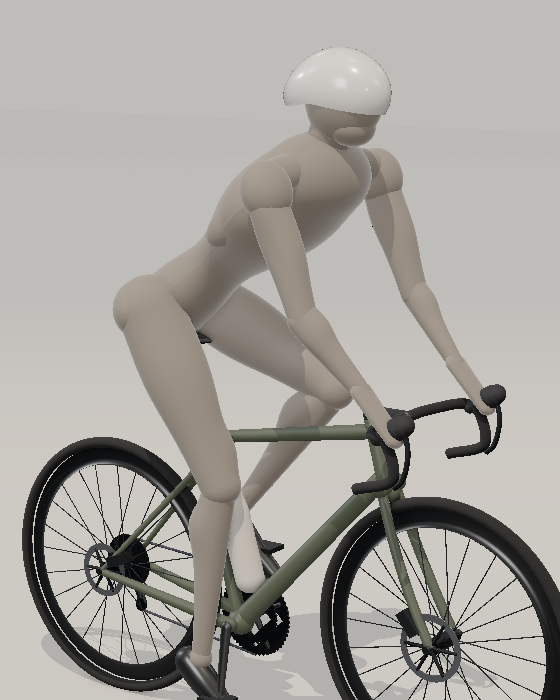
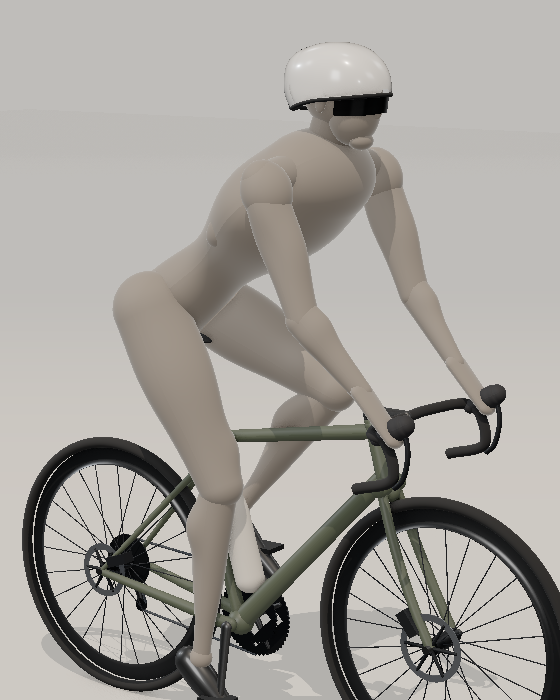
Rider: fitted head and helmet, fuller build, defined calves
Rebuilds the head (cranium, face, chin, nose, ears) and fits the helmet
to it: an offset superellipse shell with a low rear rim, a long tail
and a liner band, plus a wrap shield lens. Makes the build about 10%
fuller and sharpens the calves into a visible diamond split. Updates
the plan and mock-ups, and adds a side/front/3-4 head sheet.

Claude-Session: https://claude.ai/code/session_01NLmMAFFsk38kWFHaEgHSMq

diff --git a/docs/plans/mockups/src/rider3.js b/docs/plans/mockups/src/rider3.js
@@ -11,14 +11,15 @@ function taperLimb(a, b, prof, sx, sz, mat) {
 }
 // Lathe limb with directional muscle bulges built into the surface.
 // bulges: [{ dir: world Vector3 (unit, ⟂ bone), t, w, amp, spread }] — radius += amp·gauss(t)·max(0,cos θ)^spread
-function muscleLimb(a, b, prof, bulges, mat, sxz = [1, 1]) {
-  const L = a.distanceTo(b), g = limbGeometry(L, prof, 48, 64), p = g.attributes.position;
+const FAT = 1.1;
+function muscleLimb(a, b, prof0, bulges, mat, sxz = [1, 1]) {
+  const prof = t => prof0(t) * FAT; const L = a.distanceTo(b), g = limbGeometry(L, prof, 48, 64), p = g.attributes.position;
   const q = new THREE.Quaternion().setFromUnitVectors(V(0, 1, 0), b.clone().sub(a).normalize()), qi = q.clone().invert();
   const loc = bulges.map(u => { const d = u.dir.clone().applyQuaternion(qi); d.y = 0; d.normalize(); return { ...u, d }; });
   for (let i = 0; i < p.count; i++) {
     const x = p.getX(i), y = p.getY(i), z = p.getZ(i), rr = Math.hypot(x, z); if (rr < 1e-3) continue;
     const t = Math.min(1, Math.max(0, y / L)); let add = 0;
-    for (const u of loc) { const c = (x * u.d.x + z * u.d.z) / rr; if (c > 0) add += u.amp * Math.exp(-((t - u.t) ** 2) / (2 * u.w * u.w)) * Math.pow(c, u.spread ?? 2); }
+    for (const u of loc) { const c = (x * u.d.x + z * u.d.z) / rr; if (c > 0) add += FAT * u.amp * Math.exp(-((t - u.t) ** 2) / (2 * u.w * u.w)) * Math.pow(c, u.spread ?? 2); }
     const k = (rr + add) / rr; p.setX(i, x * k * sxz[0]); p.setZ(i, z * k * sxz[1]);
   }
   g.computeVertexNormals(); const m = new THREE.Mesh(g, mat); m.position.copy(a); m.quaternion.copy(q); return m;
@@ -32,7 +33,7 @@ export function buildRider(G, MAT) {
   const hip = V2(J.hip), sh = V2(J.shoulder), ax = sh.clone().sub(hip).normalize(), nrm = V(-ax.y, ax.x); // nrm = "up/back" side of torso
   const trunkA = Math.atan2(ax.y, ax.x);
   // Torso: pelvis → narrow waist → broad ribcage/lats → chest; V-taper in width, flat back
-  const torsoProf = t => 98 - 20 * bump(t, .36, .13) + 18 * bump(t, .78, .16);
+  const torsoProf = t => 1.08 * (98 - 18 * bump(t, .36, .13) + 18 * bump(t, .78, .16));
   g.add(taperLimb(hip.clone().addScaledVector(ax, -10), sh.clone().addScaledVector(ax, -18), torsoProf,
     t => lerp(.9, 1.02, ss(.3, .85, t)), t => lerp(1.08, 1.6, ss(.28, .86, t)), CL));
   for (const s of [-1, 1]) g.add(ell(hip.clone().lerp(sh, .66).addScaledVector(nrm, 10).setZ(s * 128), [92, 44, 34], CL, trunkA)); // lats
@@ -45,7 +46,7 @@ export function buildRider(G, MAT) {
   }
   // pelvis + glutes
   g.add(tube(V(J.hip.x - 16, J.hip.y - 4, hh), V(J.hip.x - 16, J.hip.y - 4, -hh), 78, 78, CL));
-  for (const s of [-1, 1]) g.add(ell(V(J.hip.x - 52, J.hip.y - 20, s * 54), [58, 52, 52], CL, trunkA * .3));
+  for (const s of [-1, 1]) g.add(ell(V(J.hip.x - 52, J.hip.y - 20, s * 54), [64, 58, 58], CL, trunkA * .3));
   // legs: quads (vastus + VMO teardrop), calf mass behind the shin
   const legs = [[1, J.knee, J.ankle, J.cleatL, FO], [-1, J.kneeR, J.ankleR, J.cleatR, CL]];
   for (const [s, kn, an, cl, M] of legs) {
@@ -58,12 +59,13 @@ export function buildRider(G, MAT) {
       { dir: lat, t: .45, w: .2, amp: 12, spread: 2 },                                 // vastus lateralis sweep
       { dir: antT.clone().negate(), t: .35, w: .2, amp: 8, spread: 2 },                // hamstrings
     ], M, [1, .92]));
-    g.add(sphere(k, 49, M, [1, 1, .9]));
+    g.add(sphere(k, 54, M, [1, 1, .9]));
     const sd = a.clone().sub(k).normalize(); let post = V(sd.y, -sd.x).normalize(); if (post.x > 0) post.negate();
-    g.add(muscleLimb(k, a, t => lerp(42, 24, t), [
-      { dir: post.clone().add(med.clone().multiplyScalar(.5)).normalize(), t: .27, w: .12, amp: 26, spread: 2 }, // gastrocnemius medial head
-      { dir: post.clone().add(lat.clone().multiplyScalar(.5)).normalize(), t: .24, w: .1, amp: 18, spread: 2 },  // lateral head
-      { dir: post, t: .5, w: .16, amp: 10, spread: 2 },                                                          // soleus → Achilles
+    g.add(muscleLimb(k, a, t => lerp(42, 22, t) - 3 * bump(t, .85, .1), [
+      { dir: post.clone().add(med.clone().multiplyScalar(.75)).normalize(), t: .3, w: .12, amp: 36, spread: 4 },  // gastrocnemius medial head (lower, fuller)
+      { dir: post.clone().add(lat.clone().multiplyScalar(.75)).normalize(), t: .24, w: .1, amp: 28, spread: 4 },  // lateral head (higher) → diamond split
+      { dir: post, t: .5, w: .12, amp: 12, spread: 3 },                                                           // soleus
+      { dir: med, t: .52, w: .12, amp: 8, spread: 3 },                                                            // soleus medial flare
       { dir: lat, t: .3, w: .16, amp: 5, spread: 2 },                                                            // tibialis/peroneals
     ], M, [1, .92]));
     g.add(sphere(a, 29, M));
@@ -80,7 +82,7 @@ export function buildRider(G, MAT) {
       { dir: ant.clone().negate(), t: .38, w: .2, amp: 13, spread: 2 }, // triceps
       { dir: V(0, 0, s), t: .2, w: .14, amp: 8, spread: 2 },            // deltoid insertion
     ], CL));
-    g.add(sphere(el, 33, CL));
+    g.add(sphere(el, 36, CL));
     const fd = wr.clone().sub(el).normalize(); let up2 = V(-fd.y, fd.x).normalize(); if (up2.y < 0) up2.negate();
     g.add(muscleLimb(el, wr, t => lerp(36, 21, t), [{ dir: up2, t: .18, w: .14, amp: 10, spread: 2 }, { dir: V(0, 0, s), t: .22, w: .15, amp: 6, spread: 2 }], CL, [1, .86]));
     const hEnd = hd.clone().add(hd.clone().sub(wr).normalize().multiplyScalar(28));
@@ -89,14 +91,44 @@ export function buildRider(G, MAT) {
   // neck (thick), head, jaw, glasses, helmet
   const headC = V2(J.head);
   g.add(tube(sh.clone().add(V(-12, -22)), headC.clone().add(V(-26, -44)), 54, 49, CL));
-  const na = Math.atan2(J.head.y - J.neckBase.y, J.head.x - J.neckBase.x), gaze = na - d2r(80);
+  const na = Math.atan2(J.head.y - J.neckBase.y, J.head.x - J.neckBase.x), gaze = na - d2r(78);
   const H = new THREE.Group(); H.position.copy(headC); H.rotation.z = gaze; g.add(H);
-  H.add(ell(V(0, 0, 0), [96, 108, 76], CL), ell(V(28, -60, 0), [58, 46, 56], CL), ell(V(90, -4, 0), [16, 22, 11], CL));
-  { // helmet: the earlier shell (upper 62% of a sphere, flattened, with a rear tail kick)
-    const hg = new THREE.SphereGeometry(1, 72, 36, 0, Math.PI * 2, 0, Math.PI * .62), p = hg.attributes.position;
-    for (let i = 0; i < p.count; i++) { let x = p.getX(i), y = p.getY(i), z = p.getZ(i); z *= .86; y *= .78; if (x < 0) { x *= 1.28; y -= .18 * x * x; } else x *= 1.06; p.setXYZ(i, x * 116 - 10, y * 122 + 16, z * 95); }
-    hg.computeVertexNormals(); H.add(new THREE.Mesh(hg, MAT.helmet));
-  }
+  // head (head-local: +x gaze, +y up, +z left): cranium, face, jaw/chin, nose, ears
+  const CR = { c: V(-8, 18, 0), r: V(98, 94, 77) };
+  H.add(ell(CR.c, [CR.r.x, CR.r.y, CR.r.z], CL));
+  H.add(ell(V(30, -30, 0), [60, 74, 62], CL));
+  H.add(ell(V(58, -88, 0), [26, 22, 34], CL));
+  H.add(ell(V(92, -12, 0), [12, 22, 9], CL));
+  for (const s of [-1, 1]) H.add(ell(V(-12, -8, s * 76), [14, 26, 8], CL));
+  // helmet: shell = cranium ellipsoid offset outward, cut along a rim line (brow → above ear → occiput), short tail
+  const off = 18, A = CR.r.x + off, B = CR.r.y + 10, Cz = CR.r.z + off, cx = CR.c.x, cy = CR.c.y;
+  const rimY = x => { const u = (x - cx) / A; return u > 0 ? lerp(-4, 24, u) : lerp(-4, -52, (-u) ** 1.2); }; // front brow high, rear low
+  const shellPt = (x, a, k = 1) => {
+    const u = (x - cx) / (x < cx ? A * 1.3 : A), kk = Math.sqrt(Math.max(0, 1 - u * u));
+    const tail = x < cx ? 10 * Math.max(0, -u - .6) / .4 : 0;
+    const q = 2.5, ca = Math.cos(a), sa = Math.sin(a);
+    return V(x, cy + B * kk * Math.sign(ca) * Math.abs(ca) ** (2 / q) * k + tail, Cz * kk * Math.sign(sa) * Math.abs(sa) ** (2 / q) * k);
+  };
+  const helm = (inset, NS = 80, NA = 56) => {
+    const pos = [], idx = [], x0 = cx - A * 1.3 + 2, x1 = cx + A - 2;
+    for (let i = 0; i <= NS; i++) { const x = lerp(x0, x1, i / NS), u = (x - cx) / (x < cx ? A * 1.3 : A), kk = Math.sqrt(Math.max(1e-4, 1 - u * u));
+      const vv = Math.max(-1, Math.min(1, (rimY(x) - cy) / (B * kk))), am = Math.acos(Math.sign(vv) * Math.abs(vv) ** (2.5 / 2));
+      for (let j = 0; j <= NA; j++) { const p = shellPt(x, lerp(-am, am, j / NA), inset); pos.push(p.x, p.y, p.z); } }
+    for (let i = 0; i < NS; i++) for (let j = 0; j < NA; j++) { const a0 = i * (NA + 1) + j, b0 = a0 + NA + 1; idx.push(a0, b0, a0 + 1, b0, b0 + 1, a0 + 1); }
+    const gg = new THREE.BufferGeometry(); gg.setAttribute('position', new THREE.Float32BufferAttribute(pos, 3)); gg.setIndex(idx); gg.computeVertexNormals(); return gg;
+  };
+  H.add(new THREE.Mesh(helm(1), MAT.helmet));
+  // dark liner edge along the rim
+  const edge = []; const x0 = cx - A * 1.3 + 4, x1 = cx + A - 4;
+  for (const side of [1, -1]) for (let i = 0; i <= 60; i++) { const x = side > 0 ? lerp(x0, x1, i / 60) : lerp(x1, x0, i / 60), u = (x - cx) / (x < cx ? A * 1.3 : A), kk = Math.sqrt(Math.max(1e-4, 1 - u * u));
+    const vv = Math.max(-1, Math.min(1, (rimY(x) - cy) / (B * kk))), am = Math.acos(Math.sign(vv) * Math.abs(vv) ** (2.5 / 2)); edge.push(shellPt(x, side * am, .97)); }
+  H.add(new THREE.Mesh(new THREE.TubeGeometry(new THREE.CatmullRomCurve3(edge, true), 240, 5, 8, true), MAT.vent));
+  // fitted wrap glasses: band hugging the face at eye level
+  { const pos = [], idx = [], NA = 40, NH = 6;
+    for (let i = 0; i <= NH; i++) { const y = lerp(-22, 24, i / NH); for (let j = 0; j <= NA; j++) { const a = lerp(-1.25, 1.25, j / NA);
+      const rx = 112 - 26 * (1 - Math.cos(a)), rz = 82; pos.push(Math.cos(a) * rx - 4, y - 6 * Math.abs(Math.sin(a)) + (y < 0 ? 5 * Math.cos(a * 2.4) : 0), Math.sin(a) * rz); } }
+    for (let i = 0; i < NH; i++) for (let j = 0; j < NA; j++) { const a0 = i * (NA + 1) + j, b0 = a0 + NA + 1; idx.push(a0, b0, a0 + 1, b0, b0 + 1, a0 + 1); }
+    const gg = new THREE.BufferGeometry(); gg.setAttribute('position', new THREE.Float32BufferAttribute(pos, 3)); gg.setIndex(idx); gg.computeVertexNormals(); H.add(new THREE.Mesh(gg, MAT.lens)); }
   g.traverse(o => { if (o.isMesh) { o.castShadow = true; o.receiveShadow = true; } });
   return g;
 }

diff --git a/docs/plans/mockups/src/draw2d.js b/docs/plans/mockups/src/draw2d.js
@@ -95,27 +95,33 @@ export function clayDefs(tok) {
 export function clayFigure(G, part) {
   const { J } = G; const s = [];
   const Pg = p => `<polygon class="clay" points="${p}"/>`;
-  if (part === 'farLeg') { s.push(Pg(seg(J.hip, J.kneeR, t => lerp(84, 51, t) + 12 * bumpf(t, .3, .2))), Pg(seg(J.kneeR, J.ankleR, t => lerp(45, 27, t) + 8 * bumpf(t, .3, .14)))); const sd = Math.atan2(J.ankleR.y - J.kneeR.y, J.ankleR.x - J.kneeR.x); const cc = v(lerp(J.kneeR.x, J.ankleR.x, .28) - 26, lerp(J.kneeR.y, J.ankleR.y, .28)); s.push(Pg(ellP(cc, 92, 42, sd))); }
-  if (part === 'farArm') s.push(Pg(seg(J.shoulder, J.elbow, t => lerp(46, 35, t) + 9 * bumpf(t, .45, .2))), Pg(seg(J.elbow, J.wrist, t => lerp(41, 23, t) + 7 * bumpf(t, .18, .14))));
+  if (part === 'farLeg') { s.push(Pg(seg(J.hip, J.kneeR, t => 1.1 * lerp(84, 51, t) + 12 * bumpf(t, .3, .2))), Pg(seg(J.kneeR, J.ankleR, t => 1.1 * lerp(45, 27, t) + 8 * bumpf(t, .3, .14)))); const sd = Math.atan2(J.ankleR.y - J.kneeR.y, J.ankleR.x - J.kneeR.x); const cc = v(lerp(J.kneeR.x, J.ankleR.x, .28) - 26, lerp(J.kneeR.y, J.ankleR.y, .28)); s.push(Pg(ellP(cc, 96, 48, sd))); }
+  if (part === 'farArm') s.push(Pg(seg(J.shoulder, J.elbow, t => 1.1 * lerp(46, 35, t) + 9 * bumpf(t, .45, .2))), Pg(seg(J.elbow, J.wrist, t => 1.1 * lerp(41, 23, t) + 7 * bumpf(t, .18, .14))));
   if (part === 'body') {
     const ax = Math.atan2(J.shoulder.y - J.hip.y, J.shoulder.x - J.hip.x);
-    s.push(Pg(seg(v(J.hip.x - Math.cos(ax) * 10, J.hip.y - Math.sin(ax) * 10), v(J.shoulder.x - Math.cos(ax) * 18, J.shoulder.y - Math.sin(ax) * 18), t => (100 - 14 * bumpf(t, .36, .14) + 16 * bumpf(t, .78, .16)) * lerp(.9, 1.02, Math.min(1, Math.max(0, (t - .3) / .55))))));
-    s.push(Pg(ellP(v(J.hip.x - 16, J.hip.y - 4), 80, 78)), Pg(ellP(v(J.hip.x - 52, J.hip.y - 20), 62, 56, ax * .3)));
-    s.push(Pg(seg(v(J.neckBase.x - 20, J.neckBase.y - 6), J.shoulder, t => lerp(50, 42, t))));
-    s.push(Pg(seg(v(J.shoulder.x - 12, J.shoulder.y - 22), v(J.head.x - 26, J.head.y - 44), t => lerp(58, 52, t))));
+    s.push(Pg(seg(v(J.hip.x - Math.cos(ax) * 10, J.hip.y - Math.sin(ax) * 10), v(J.shoulder.x - Math.cos(ax) * 18, J.shoulder.y - Math.sin(ax) * 18), t => 1.08 * (98 - 18 * bumpf(t, .36, .13) + 18 * bumpf(t, .78, .16)) * lerp(.9, 1.02, Math.min(1, Math.max(0, (t - .3) / .55))))));
+    s.push(Pg(ellP(v(J.hip.x - 16, J.hip.y - 4), 80, 78)), Pg(ellP(v(J.hip.x - 52, J.hip.y - 20), 68, 62, ax * .3)));
+    s.push(Pg(seg(v(J.neckBase.x - 20, J.neckBase.y - 6), J.shoulder, t => 1.1 * lerp(50, 42, t))));
+    s.push(Pg(seg(v(J.shoulder.x - 12, J.shoulder.y - 22), v(J.head.x - 26, J.head.y - 44), t => 1.1 * lerp(58, 52, t))));
     const ua = Math.atan2(J.elbow.y - J.shoulder.y, J.elbow.x - J.shoulder.x);
     s.push(Pg(ellP(v(J.shoulder.x + Math.cos(ua) * 26, J.shoulder.y + Math.sin(ua) * 26), 70, 58, ua)));
-    s.push(Pg(seg(J.shoulder, J.elbow, t => lerp(46, 35, t) + 9 * bumpf(t, .45, .2))), Pg(seg(J.elbow, J.wrist, t => lerp(41, 23, t) + 7 * bumpf(t, .18, .14))));
+    s.push(Pg(seg(J.shoulder, J.elbow, t => 1.1 * lerp(46, 35, t) + 9 * bumpf(t, .45, .2))), Pg(seg(J.elbow, J.wrist, t => 1.1 * lerp(41, 23, t) + 7 * bumpf(t, .18, .14))));
   }
-  if (part === 'nearLeg') { s.push(Pg(seg(J.hip, J.knee, t => lerp(84, 51, t) + 12 * bumpf(t, .3, .2))), Pg(seg(J.knee, J.ankle, t => lerp(45, 27, t) + 8 * bumpf(t, .3, .14)))); const sd = Math.atan2(J.ankle.y - J.knee.y, J.ankle.x - J.knee.x); const cc = v(lerp(J.knee.x, J.ankle.x, .28) - 26, lerp(J.knee.y, J.ankle.y, .28)); s.push(Pg(ellP(cc, 92, 42, sd))); }
+  if (part === 'nearLeg') { s.push(Pg(seg(J.hip, J.knee, t => 1.1 * lerp(84, 51, t) + 12 * bumpf(t, .3, .2))), Pg(seg(J.knee, J.ankle, t => 1.1 * lerp(45, 27, t) + 8 * bumpf(t, .3, .14)))); const sd = Math.atan2(J.ankle.y - J.knee.y, J.ankle.x - J.knee.x); const cc = v(lerp(J.knee.x, J.ankle.x, .28) - 26, lerp(J.knee.y, J.ankle.y, .28)); s.push(Pg(ellP(cc, 96, 48, sd))); }
   return s.join('');
 }
 export function clayHead(G) {
-  const { J } = G; const na = Math.atan2(J.head.y - J.neckBase.y, J.head.x - J.neckBase.x), gz = na - 80 * Math.PI / 180;
+  const { J } = G; const na = Math.atan2(J.head.y - J.neckBase.y, J.head.x - J.neckBase.x), gz = na - 78 * Math.PI / 180;
   const R = (x, y) => [J.head.x + x * Math.cos(gz) - y * Math.sin(gz), J.head.y + x * Math.sin(gz) + y * Math.cos(gz)];
   const el = (cx, cy, rx, ry) => { const o = []; for (let i = 0; i < 36; i++) { const a = i / 36 * Math.PI * 2; o.push(R(cx + Math.cos(a) * rx, cy + Math.sin(a) * ry)); } return pts(o); };
-  let s = `<g filter="url(#fres)"><polygon class="clay" points="${el(0, 0, 96, 108)}"/><polygon class="clay" points="${el(28, -60, 58, 46)}"/><polygon class="clay" points="${el(90, -4, 16, 22)}"/></g>`;
-  const shl = (k, off) => { const o = []; for (let i = 0; i <= 80; i++) { const th = -Math.PI * .62 + i / 80 * Math.PI * 1.24; let x = Math.sin(th), y = Math.cos(th); y *= .78; if (x < 0) { x *= 1.28; y -= .18 * x * x; } else x *= 1.06; o.push(R(x * 116 * k - 10, y * 122 * k + 16 - off)); } return o; };
-  s += `<polygon class="helmet" points="${pts(shl(1, 0).concat(shl(.88, 4).reverse()))}"/>`;
+  let s = `<g filter="url(#fres)"><polygon class="clay" points="${el(-8, 18, 98, 94)}"/><polygon class="clay" points="${el(30, -30, 60, 74)}"/><polygon class="clay" points="${el(58, -88, 26, 22)}"/><polygon class="clay" points="${el(92, -12, 12, 22)}"/><polygon class="clay" points="${el(-12, -8, 14, 26)}"/></g>`;
+  // helmet side silhouette: same shell as 3D (cranium + offset, rim line, long tail)
+  const cx = -8, cy = 18, A = 98 + 18, B = 94 + 10;
+  const rimY = x => { const u = (x - cx) / A; return u > 0 ? -4 + 28 * u : -4 - 48 * (-u) ** 1.2; };
+  const top = [], bot = [];
+  for (let i = 0; i <= 80; i++) { const x = cx - A * 1.3 + 2 + i / 80 * (A * 2.3 - 4), u = (x - cx) / (x < cx ? A * 1.3 : A), kk = Math.sqrt(Math.max(0, 1 - u * u)), tail = x < cx ? 10 * Math.max(0, -u - .6) / .4 : 0;
+    const yt = cy + B * kk + tail, yb = Math.min(yt - 2, Math.max(rimY(x), cy - B * kk * 0.2)); top.push(R(x, yt)); bot.push(R(x, yb)); }
+  s += `<polygon class="helmet" points="${pts([...top, ...bot.reverse()])}"/><polyline class="liner" points="${pts(bot)}"/>`;
+  s += `<polygon class="lens" points="${pts([R(50, 20), R(106, 20), R(108, -12), R(94, -16), R(62, -14), R(46, -2)])}"/>`;
   return s;
 }

diff --git a/docs/plans/mockups/src/app.html b/docs/plans/mockups/src/app.html
@@ -5,7 +5,7 @@
 <script type="module">
 import { build, METRICS, band } from './geom.js';
 import { mark } from './overlay.js';
-import { bikeLayers, headSVG, extremitiesSVG, clayDefs, clayFigure, clayHead } from './draw2d.js';
+import { rasterBody, bikeLayers, headSVG, extremitiesSVG, clayDefs, clayFigure, clayHead } from './draw2d.js';
 const SEX = new URLSearchParams(location.search).get('sex') || 'm';
 const theme = new URLSearchParams(location.search).get('theme') || 'light';
 document.documentElement.dataset.theme = theme;
@@ -110,13 +110,13 @@ const nav = `<div class="nav"><div class="brand">${mark('var(--ink)', 'var(--acc
 const stage = `<div class="stage"><div class="stagebar"><div class="seg" style="width:180px"><span class="on">SIDE</span><span>FRONT</span><span>3D</span></div><span class="pill">LAYERS ▾</span><span class="pill on">ANGLES</span><span class="pill on">DIMENSIONS</span><span class="pill">KOPS</span><span class="ttl sp">COMPARE <b style="color:var(--accentTxt)">FIT 02</b> ▾</span><span class="pill">⛶</span></div>${stageSvg}<div class="ov ov2">${lab}</div></div>`;
 document.getElementById('root').innerHTML = `<div class="app">${nav}<div class="main">${left}${stage}${right}</div></div>`;
 const st = document.createElement('style'); st.textContent = `
- svg.s2d .frame,svg.s2d .frameF{fill:var(--frame)} svg.s2d .fork{fill:none;stroke:var(--frame);stroke-width:24;stroke-linecap:round} svg.s2d .carbon,svg.s2d .blk,svg.s2d .sad{fill:#141516} svg.s2d .rim{fill:none;stroke:#141516;stroke-width:44} svg.s2d .hub{fill:#2A2C2F} svg.s2d .ringB,svg.s2d .ringS{fill:none;stroke:#2A2C2F;stroke-width:7} svg.s2d .cas{fill:none;stroke:#2A2C2F;stroke-width:3} svg.s2d .pul{fill:#2A2C2F} svg.s2d .rotor{fill:none;stroke:#8E939A;stroke-width:15} svg.s2d .rotorS{stroke:#6F747B;stroke-width:6} svg.s2d .cal{fill:#2A2C2F} svg.s2d .hose{fill:none;stroke:#1C1C1D;stroke-width:6} svg.s2d .bottle{fill:var(--bottle)} svg.s2d .cage{stroke:#141516;stroke-width:5} svg.s2d .hood{fill:#202022} svg.s2d .lever{fill:none;stroke:#2A2C2F;stroke-width:12;stroke-linecap:round} svg.s2d .skin{fill:var(--skin)} svg.s2d .clay{fill:var(--clay)} svg.s2d .hair{fill:#3B3430} svg.s2d .lens{fill:#0E0F10} svg.s2d .helmet{fill:var(--helmet);stroke:var(--ink);stroke-width:2.5;stroke-opacity:.5} svg.s2d .vent{fill:none;stroke:#141516;stroke-width:9;stroke-linecap:round} svg.s2d .strap{stroke:#141516;stroke-width:4} svg.s2d .shoe{fill:#1A1B1C} svg.s2d .sole{fill:#141516} svg.s2d .glove{fill:var(--clay)}
+ svg.s2d .frame,svg.s2d .frameF{fill:var(--frame)} svg.s2d .fork{fill:none;stroke:var(--frame);stroke-width:24;stroke-linecap:round} svg.s2d .carbon,svg.s2d .blk,svg.s2d .sad{fill:#141516} svg.s2d .rim{fill:none;stroke:#141516;stroke-width:44} svg.s2d .hub{fill:#2A2C2F} svg.s2d .ringB,svg.s2d .ringS{fill:none;stroke:#2A2C2F;stroke-width:7} svg.s2d .cas{fill:none;stroke:#2A2C2F;stroke-width:3} svg.s2d .pul{fill:#2A2C2F} svg.s2d .rotor{fill:none;stroke:#8E939A;stroke-width:15} svg.s2d .rotorS{stroke:#6F747B;stroke-width:6} svg.s2d .cal{fill:#2A2C2F} svg.s2d .hose{fill:none;stroke:#1C1C1D;stroke-width:6} svg.s2d .bottle{fill:var(--bottle)} svg.s2d .cage{stroke:#141516;stroke-width:5} svg.s2d .hood{fill:#202022} svg.s2d .lever{fill:none;stroke:#2A2C2F;stroke-width:12;stroke-linecap:round} svg.s2d .skin{fill:var(--skin)} svg.s2d .clay{fill:var(--clay)} svg.s2d .hair{fill:#3B3430} svg.s2d .lens{fill:#0E0F10} svg.s2d .liner{fill:none;stroke:#141516;stroke-width:9;stroke-linecap:round} svg.s2d .helmet{fill:var(--helmet);stroke:var(--ink);stroke-width:2.5;stroke-opacity:.5} svg.s2d .vent{fill:none;stroke:#141516;stroke-width:9;stroke-linecap:round} svg.s2d .strap{stroke:#141516;stroke-width:4} svg.s2d .shoe{fill:#1A1B1C} svg.s2d .sole{fill:#141516} svg.s2d .glove{fill:var(--clay)}
  svg.s2d .bar{fill:none;stroke:#1C1C1D;stroke-width:25;stroke-linecap:round}
  svg.s2d .tyre{fill:none;stroke:#1A1A1A;stroke-width:28}
  svg.s2d .rimd{fill:none;stroke:var(--ink);stroke-width:55;opacity:.07} svg.s2d .spoke{stroke:#303236;stroke-width:2.2;opacity:.8}
  svg.s2d .ring{fill:none;stroke:var(--ink);stroke-width:8} svg.s2d .chain{stroke:var(--ink);stroke-width:7;opacity:.8}
  svg.s2d .rider{fill:var(--rider)} svg.s2d .riderFar{fill:var(--rider);opacity:.45} svg.s2d .shoe{fill:#1A1B1C}
- svg.s2d .helmet{fill:var(--surface);stroke:var(--ink);stroke-width:3} svg.s2d .bone{stroke:var(--ink);stroke-width:2.2;opacity:.55} svg.s2d .jd{fill:var(--surface);stroke:var(--ink);stroke-width:2.5}
+ svg.s2d .liner{fill:none;stroke:#141516;stroke-width:9;stroke-linecap:round} svg.s2d .helmet{fill:var(--surface);stroke:var(--ink);stroke-width:3} svg.s2d .bone{stroke:var(--ink);stroke-width:2.2;opacity:.55} svg.s2d .jd{fill:var(--surface);stroke:var(--ink);stroke-width:2.5}
  svg.s2d .ghost{fill:none;stroke:var(--accent);stroke-width:2.5;stroke-dasharray:14 10;opacity:.9}
  svg.s2d .arcA{fill:none;stroke:var(--accent);stroke-width:2.5} svg.s2d .accl{stroke:var(--accent);stroke-width:2.5} svg.s2d .accD{fill:var(--accent)}
  svg.s2d .arcI{fill:none;stroke:var(--ink);stroke-width:2;opacity:.6} svg.s2d .hair{stroke:var(--ink);stroke-width:2;opacity:.6}

diff --git a/docs/plans/site-redesign.md b/docs/plans/site-redesign.md
@@ -50,6 +50,7 @@ of PNS, MAAP or Rapha). They care about details and exactness. They are nerdy ab
 |---|---|
 | `00-brand-directions.png` | The three brand directions, in light and dark |
 | `01-app-fit-builder-2d-light.png` | **The canonical app screen:** nav, controls column, 2D side view, readout, Metric Rail, results column with fit history |
+| `09-head-helmet.png` | Head and fitted helmet, side / front / ¾ |
 | `06/07/08-rider-*.png` | **The current rider figure** (side, rear ¾ showing the calves, front ¾) with the earlier helmet |
 | `05-fresnel-options.png` | **The rider figure and Fresnel options:** clay / tonal rim / focus rim + x-ray ghost / dark |
 | `02-view3d-light.png` | 3D view, light (default) |
@@ -290,11 +291,21 @@ Restyle only. Positions come from the existing `bike` / `mannequin` sketches in 
   - **Pending product decision:** level 2 (tonal rim only) vs level 2+3 (plus the focus rim and x-ray ghost). The recommendation is 2+3.
 - **2D:** the same profiles drawn as clay polygons, with an SVG filter that erodes the alpha and flood-fills the ring to give an
   inner rim (tonal), plus an accent ring on the focused limb (`draw2d.js#clayDefs`, `clayFigure`).
-- **Helmet: the earlier shell** (the lofted/vented version was rejected): `SphereGeometry(1, 72, 36, 0, 2π, 0, 0.62π)`,
-  with per-vertex `z *= .86; y *= .78; if (x < 0) { x *= 1.28; y -= .18·x² } else x *= 1.06`, then scaled `(116, 122, 95)`
-  and offset `(−10, 16, 0)` in head-local space. It is a plain shell in `--kit-light`, with no vents, glasses or straps.
-  The 2D side view uses the same curve as a crescent (outer shell plus a 0.88-scale inner line).
-  The head is an ellipsoid with jaw and brow masses; gaze = neck angle − 80°.
+- **Head + helmet** (`rider3.js`, head-local frame: +x gaze, +y up; gaze = neck angle − 78°):
+  - **Head:** cranium ellipsoid (98, 94, 77) centred at (−8, 18). Face mass (60, 74, 62) at (30, −30), chin (26, 22, 34),
+    nose (12, 22, 9), ears.
+  - **Helmet fitted to the cranium:** the shell is the cranium ellipsoid offset by +18 mm (+10 mm vertically, so it sits
+    low), with superellipse cross-sections (q = 2.5, so the sides are flatter). The rear half is stretched ×1.3 into a
+    long, slightly raised tail.
+  - The shell is cut along a rim line: brow +24, dropping to −52 at the occiput (low at the back, high over the eyes).
+    A dark 5 mm liner band runs along the rim. No vents.
+  - **Glasses:** a wrap shield lens (−22…+24 mm tall, wrap radius 112 → 86) sitting in front of the nose.
+  - **2D:** the same cranium, face, rim line and shell top line, drawn as polygons (helmet in `--kit-light` with a dark
+    liner stroke).
+  - **Reference:** `mockups/09-head-helmet.png` (side, front, ¾).
+- **Build:** all limb profiles and muscle amplitudes are ×1.1, the torso ×1.08, glutes (64, 58, 58); a little fuller than a
+  climber. **Calves:** gastrocnemius medial amp 36 (t 0.30) and lateral amp 28 (t 0.24), both spread 4 and angled 0.75
+  towards medial/lateral so the diamond split shows. Soleus amp 12 plus a medial flare, and an ankle pinch at t 0.85.
 
 ### 5.6 3D view (tracks C and E)
 

diff --git a/docs/plans/3d-instrument-redesign.md b/docs/plans/3d-instrument-redesign.md
@@ -8,8 +8,7 @@
 > - The accent is `#FF4F00` (brand direction 01 "Contact", **decided**), via tokens.
 > - **Superseded by master plan §5.5:** this plan's §5.2 profile numbers. The rider stays a segmented lathe clay mannequin
 >   (as here), reshaped to a Freddy-Ovett-style toned build, with muscles deformed into the limb surfaces
->   (`muscleLimb`) and a tonal Fresnel rim. The §5.3 helmet shell is kept as-is (values `(116, 122, 95)`, offset
->   `(−10, 16, 0)`); vents are not used.
+>   (`muscleLimb`) and a tonal Fresnel rim. The §5.3 head and helmet are replaced by the fitted head/helmet in master plan §5.5.
 > - **Bike (Phase 6) additions:** a full disc road bike: 52/36 chainrings, front and rear derailleurs, 11-speed cassette,
 >   chain through the pulleys, flat-mount calipers, 160/140 rotors on the left, STI hoods + levers, dropped stays,
 >   sloping top tube, aero seatpost, bottle + cage. Carbon-black deep rims and black tyres; **no tan walls, no light rim bands**.
